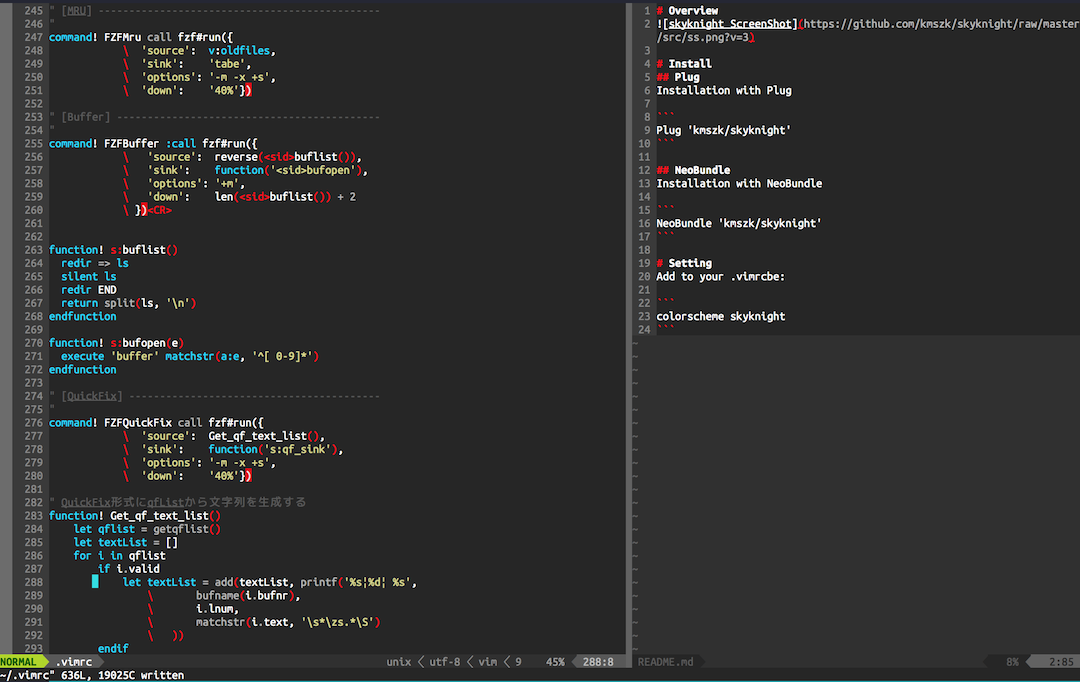
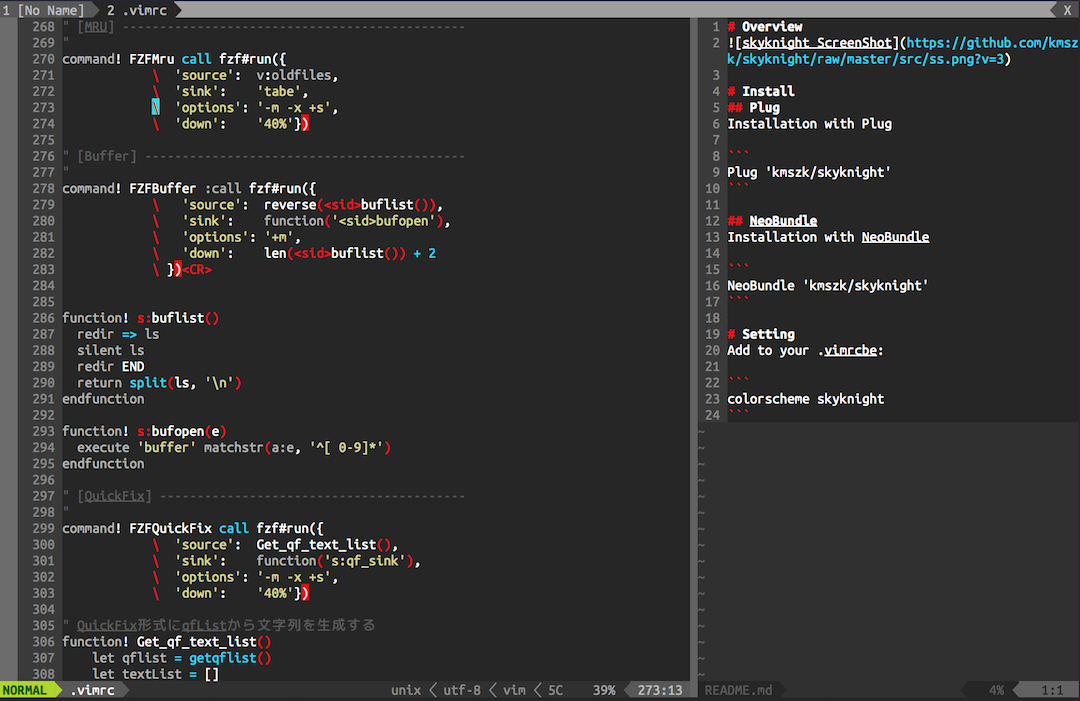
スクショ更新

Changed region(s): [[0.0, 0.0, 1.0, 1.0]]

diff --git a/README.md b/README.md
@@ -1,5 +1,5 @@
 # Overview
-![skyknight ScreenShot](https://github.com/kmszk/skyknight/raw/master/src/ss.png?v=3)
+![skyknight ScreenShot](https://github.com/kmszk/skyknight/raw/master/src/ss.png?v=4)
 
 # Install
 ## Plug
